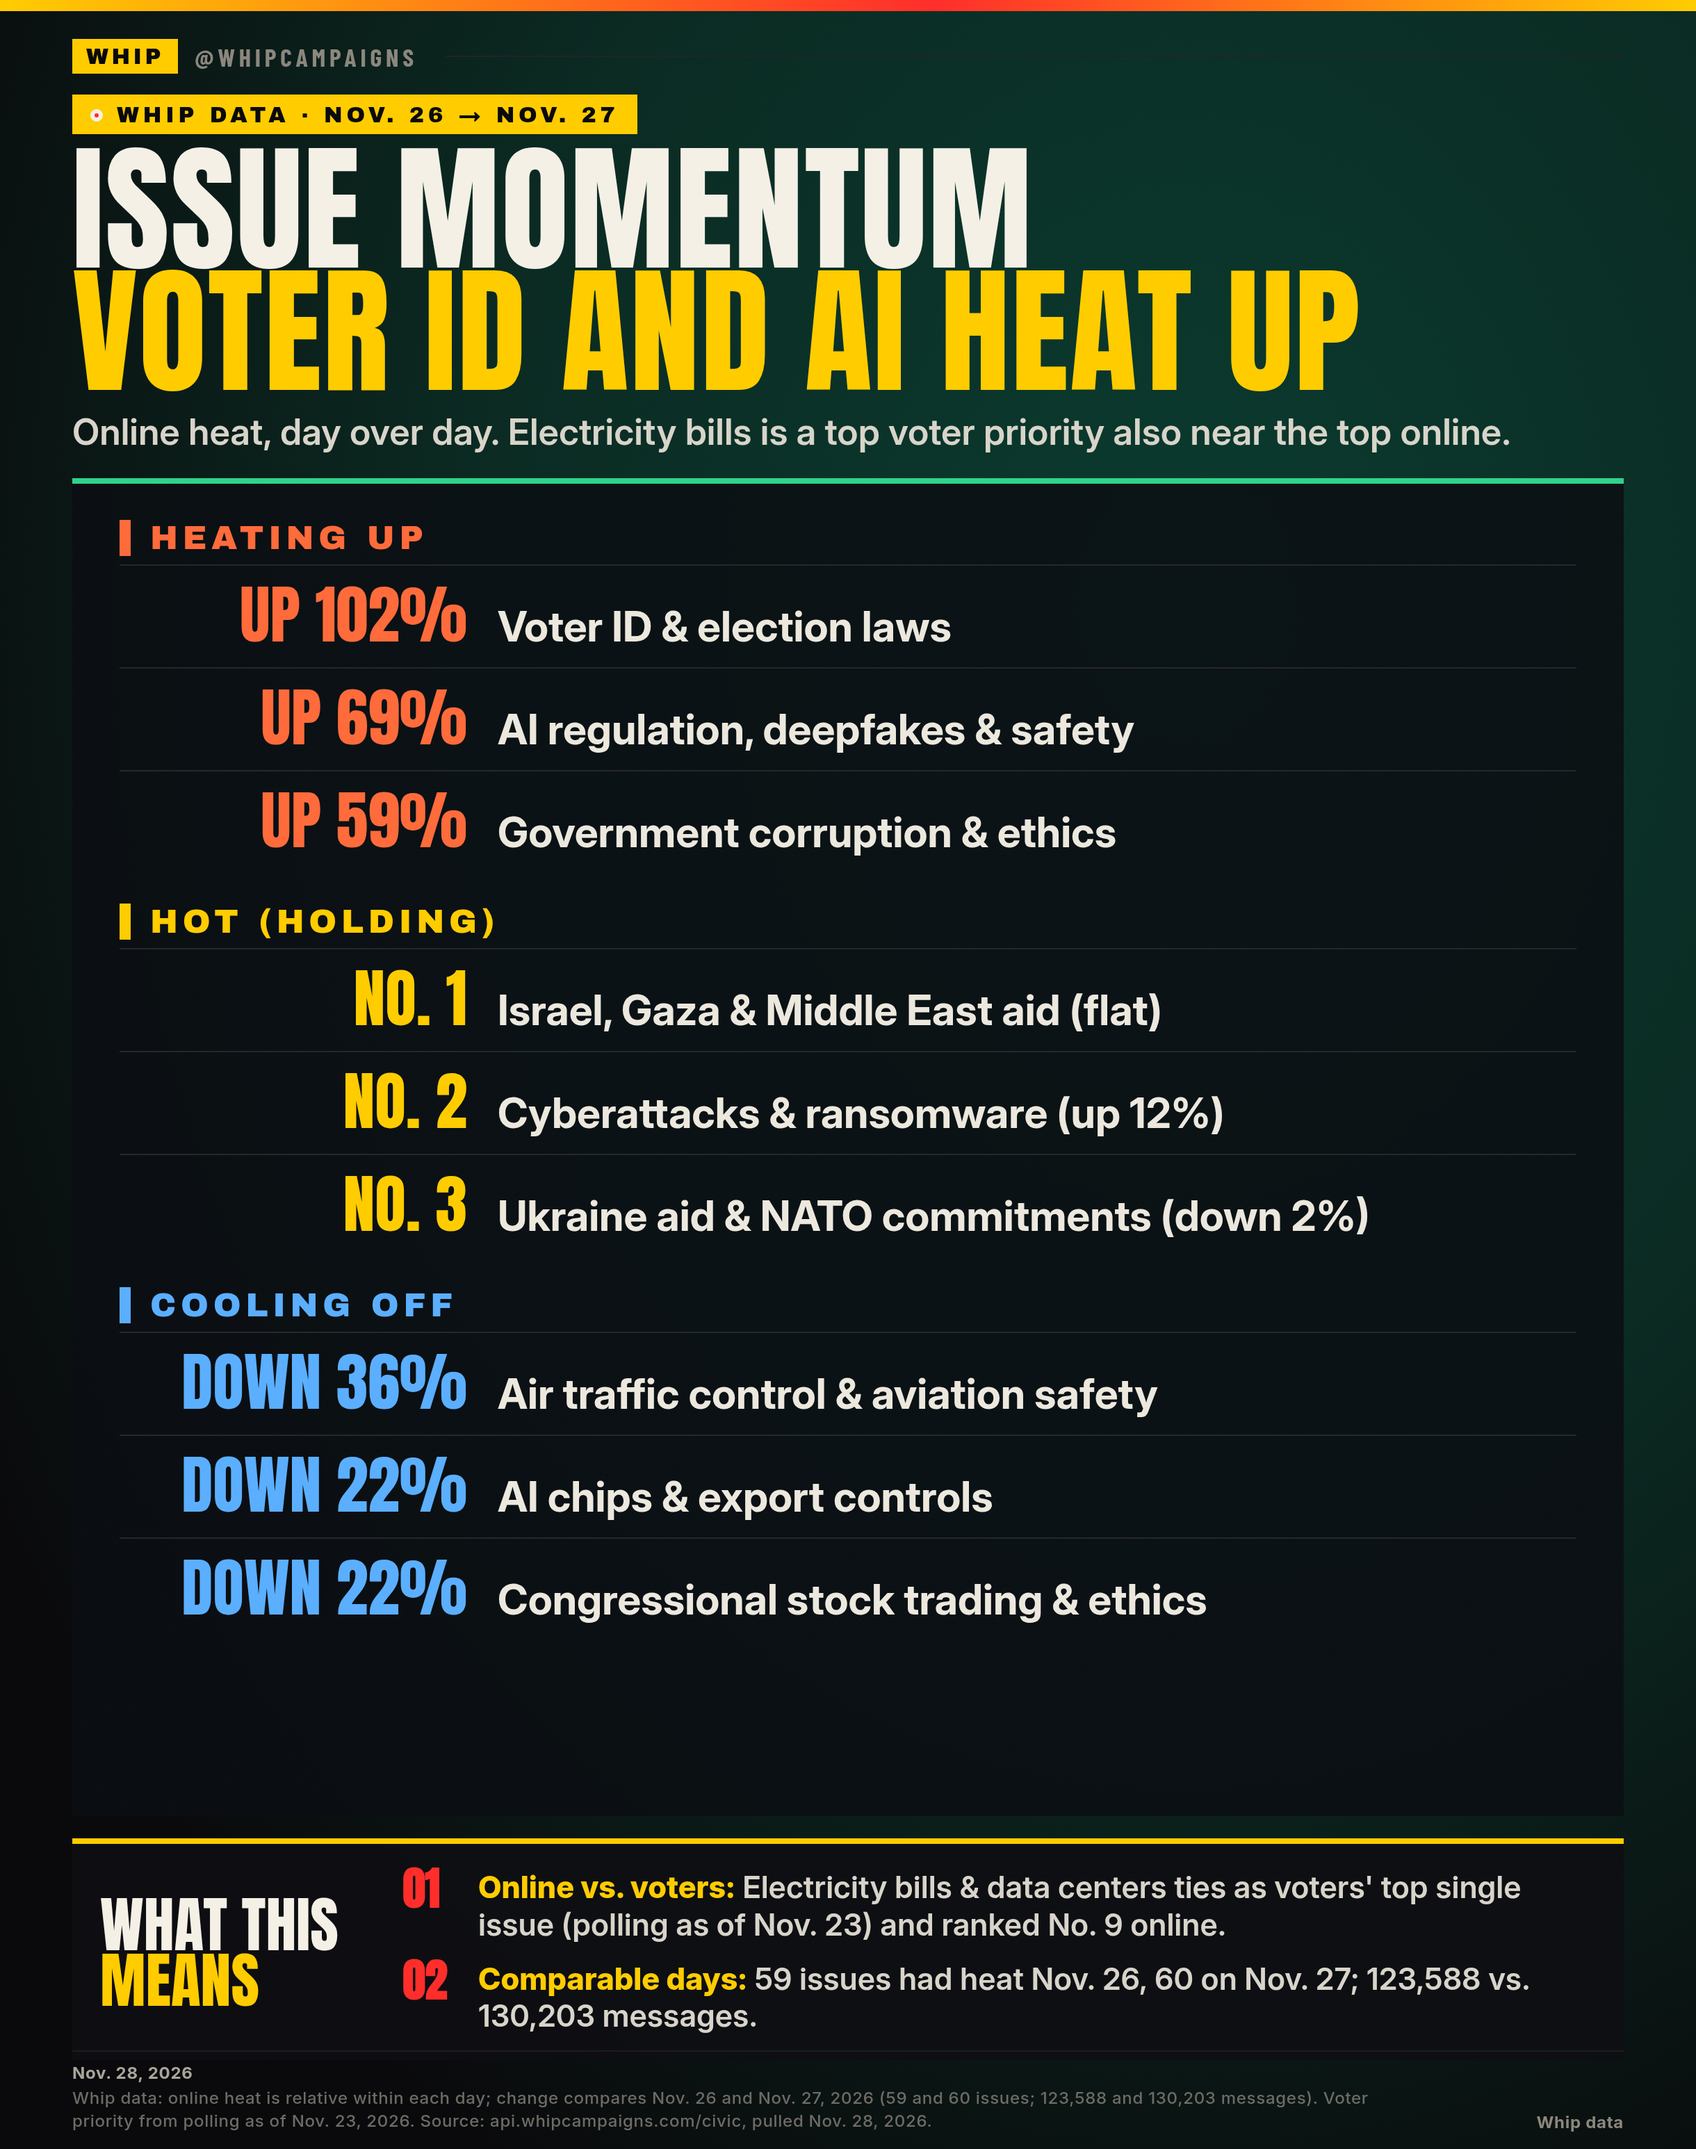
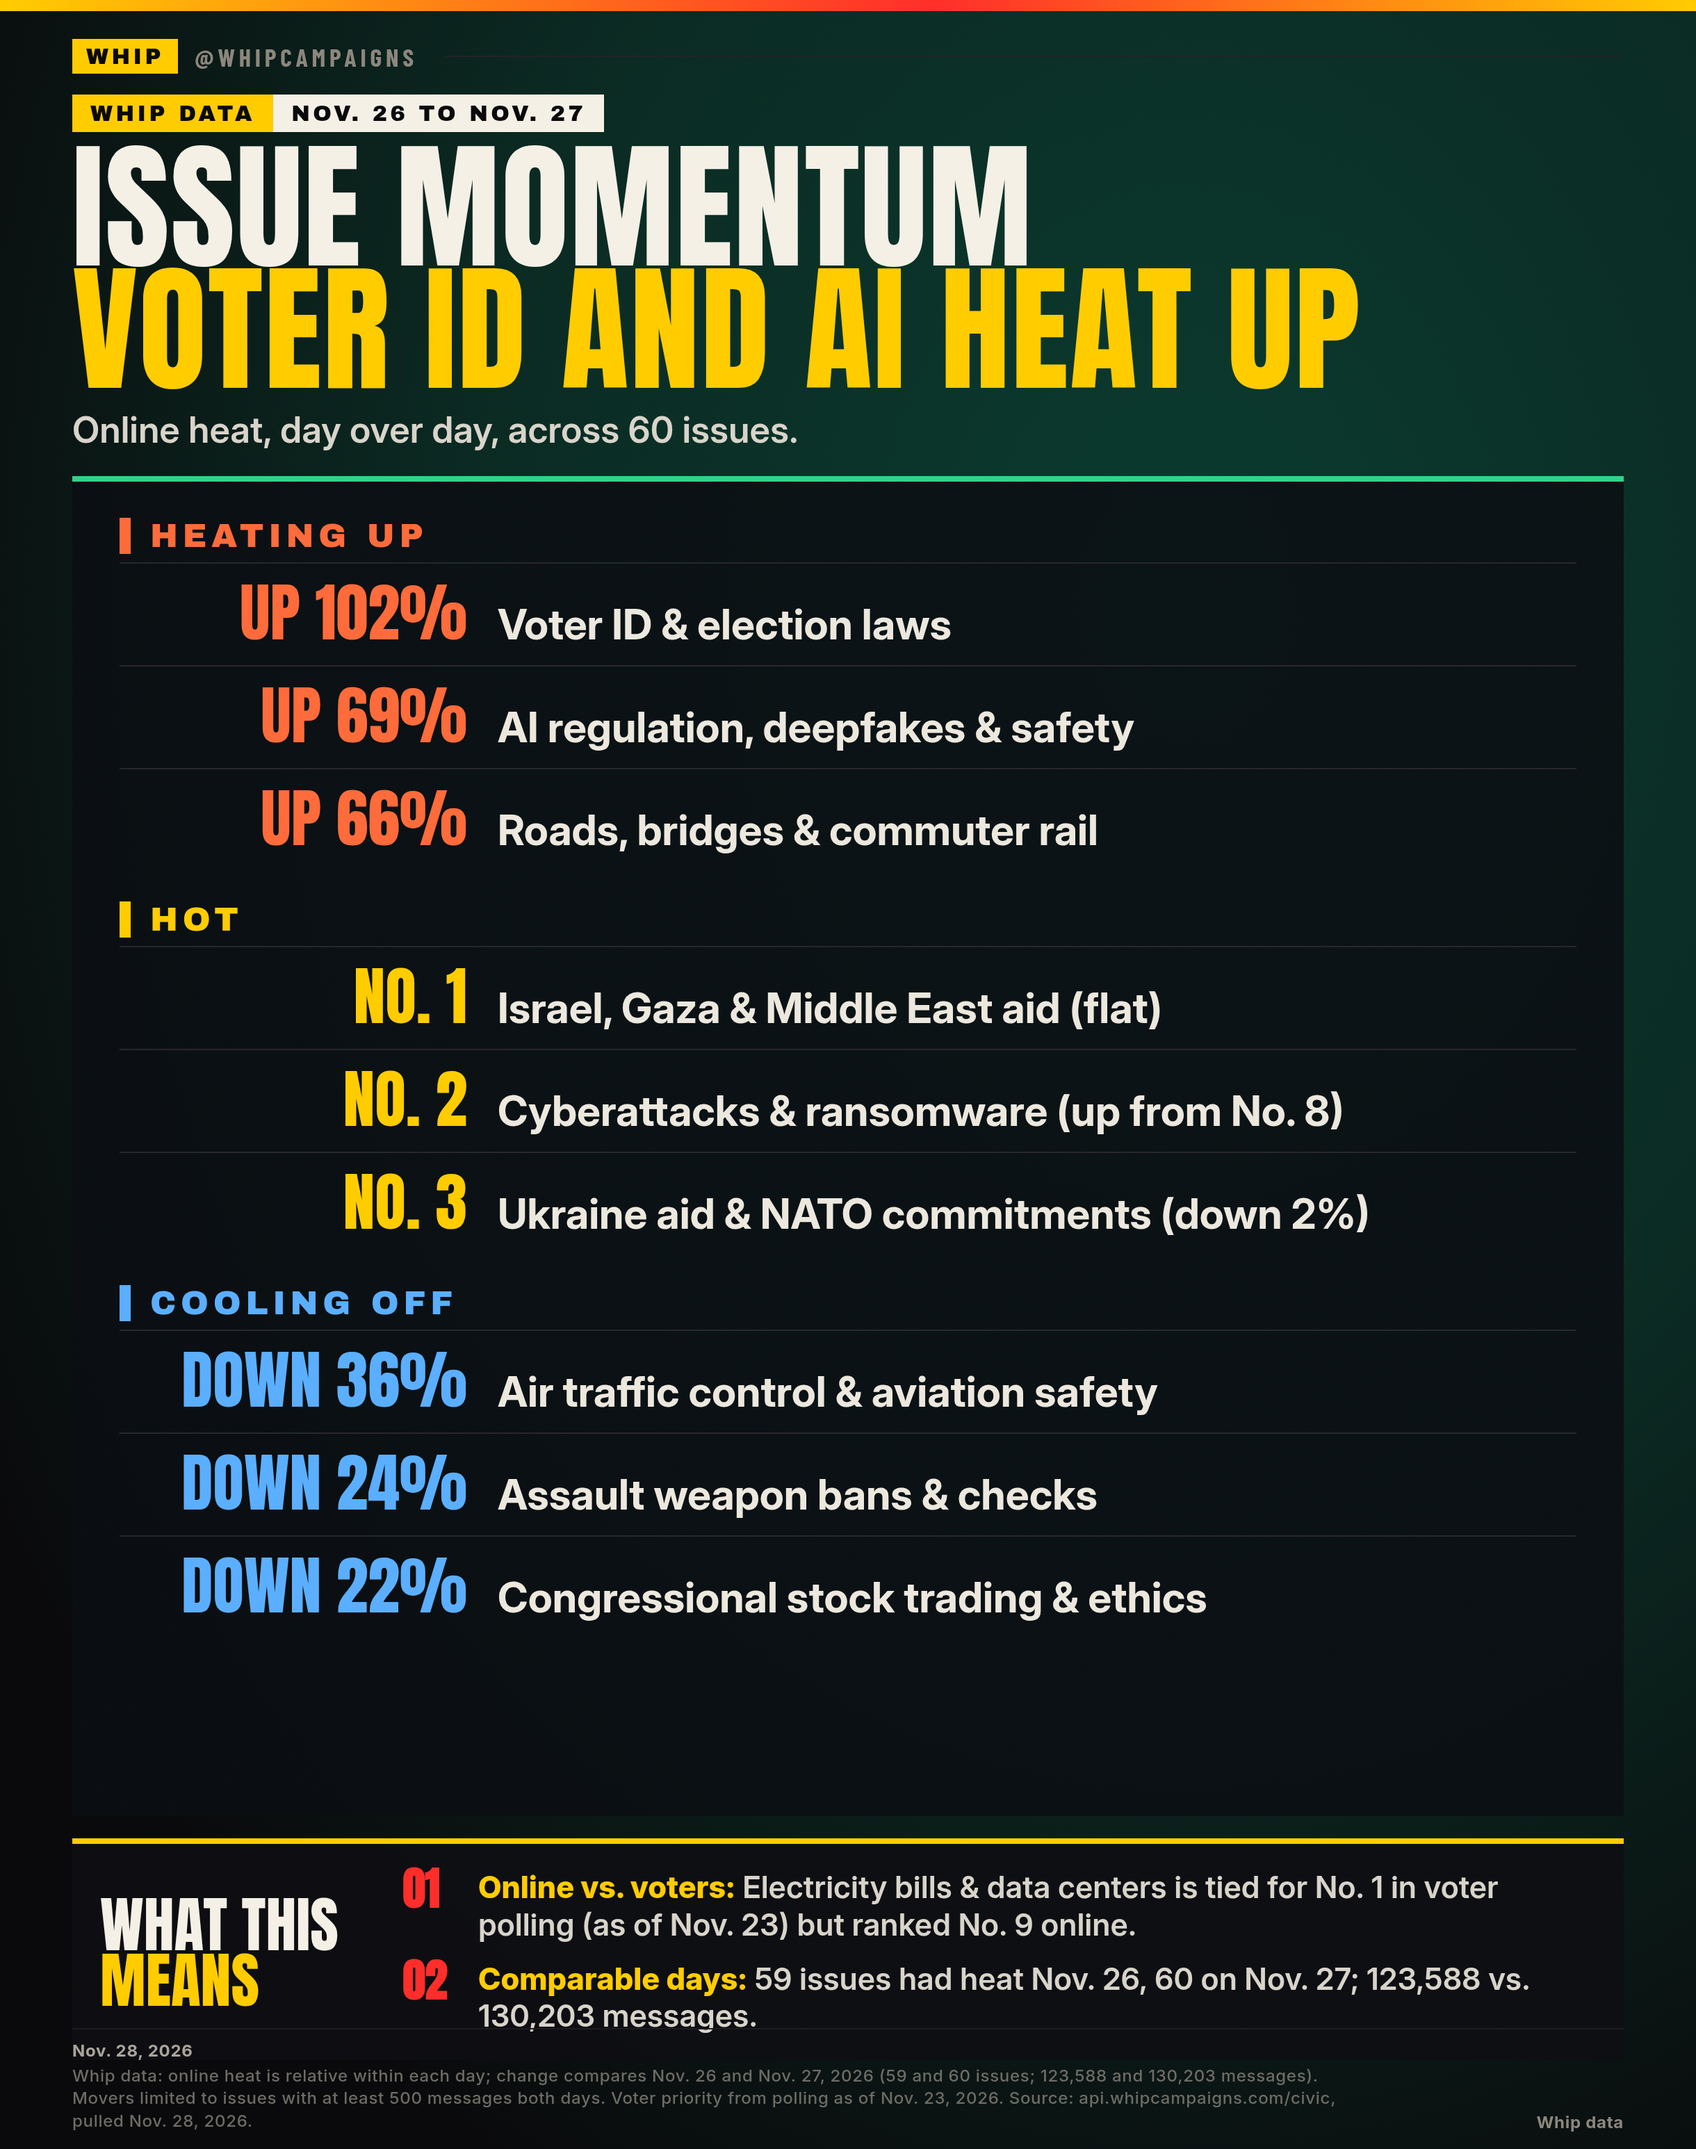
Nov 28 issue momentum card v2: Approver mover-floor and chip fixes
Limit movers to issues with at least 500 messages both days, retitle HOT,
fix dek and tie wording, and replace the v4 dotted tag with the two-tone
v5 chip (WHIP DATA · NOV. 26 TO NOV. 27).

diff --git a/2026-11-28-momentum/make_card.py b/2026-11-28-momentum/make_card.py
@@ -1,5 +1,5 @@
 #!/usr/bin/env python3
-"""ISSUE MOMENTUM card (TALL v4), Nov 28, 2026: Nov 26 vs Nov 27 Whip heat, percent movement only. No Whip scores. Draft only."""
+"""ISSUE MOMENTUM card (TALL v4 + two-tone v5 chip), Nov 28, 2026: Nov 26 vs Nov 27 Whip heat, percent movement only. No Whip scores. Draft only."""
 import importlib.util, json, shutil, sys
 from pathlib import Path
 OUT = Path(__file__).resolve().parent
@@ -18,6 +18,30 @@ def render_momentum(g):
         out.append(f'<div style="margin-bottom:22px"><div style="font-family:\'Archivo Black\',sans-serif;font-size:24px;letter-spacing:.14em;color:{c};border-left:8px solid {c};padding-left:14px;margin-bottom:6px">{tv4.esc(sec["title"])}</div>{rows}</div>')
     return '<div class="panel" style="padding:26px 34px 6px">' + "".join(out) + '</div>'
 tv4.render_graphic = render_momentum
+
+_orig_build = tv4.build_html
+def build_html(data):
+    """Swap the v4 red-dot tag for the two-tone v5 chip (no dot)."""
+    html = _orig_build(data)
+    kicker = data.get("kicker") or "UPDATE"
+    first, _, rest = kicker.partition(" · ")
+    first, rest = tv4.esc(first), tv4.esc(rest)
+    rest_h = f'<span class="lk-rest">{rest}</span>' if rest else ""
+    lockup = f'<div class="lockup"><span class="lk-main">{first}</span>{rest_h}</div>'
+    old = f'<div class="tag"><span class="dot"></span>{tv4.esc(kicker)}</div>'
+    if old not in html:
+        raise SystemExit("v4 kicker tag not found in HTML")
+    html = html.replace(old, lockup, 1)
+    css = (
+        f".lockup{{display:inline-flex;align-items:stretch;font-family:'Archivo Black',sans-serif;"
+        f"letter-spacing:.14em;line-height:1;width:max-content;font-size:16px;margin-bottom:10px}}"
+        f".lk-main{{display:inline-flex;align-items:center;background:{tv4.YEL};color:{tv4.INK};padding:6px 13px 5px}}"
+        f".lk-rest{{display:inline-flex;align-items:center;background:{tv4.PAPER};color:{tv4.INK};padding:6px 13px 5px}}"
+    )
+    html = html.replace("</style>", css + "</style>", 1)
+    return html
+tv4.build_html = build_html
+
 r = tv4.main([str(OUT / "card.json")])
 dest = Path("/workspace/whip-cards/2026-11-28-momentum"); dest.mkdir(parents=True, exist_ok=True)
 for f in ("card.png", "card.json", "post.txt", "alt.txt", "make_card.py"):
